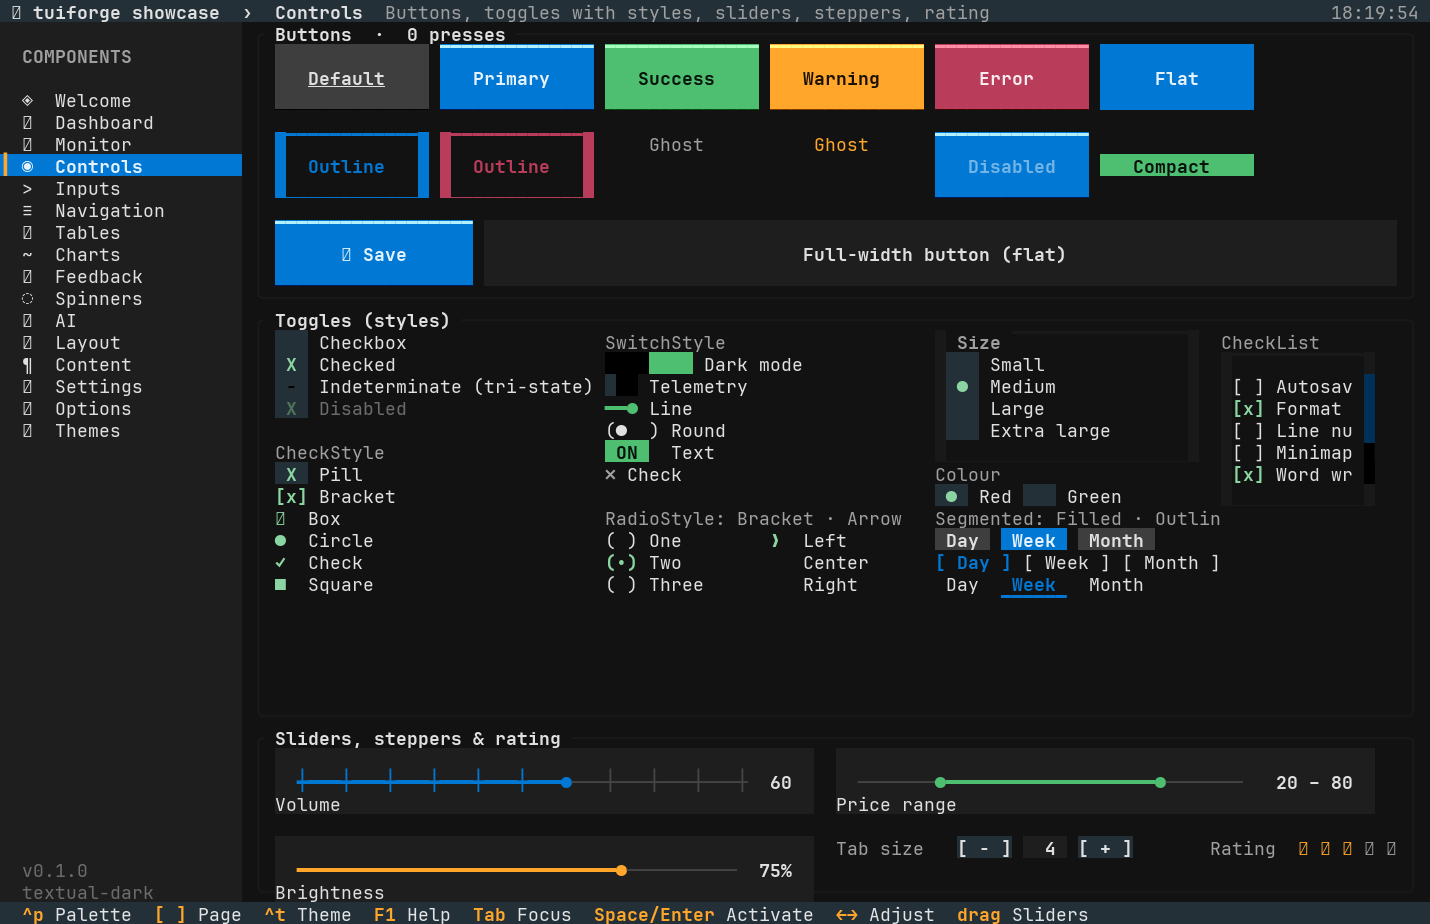
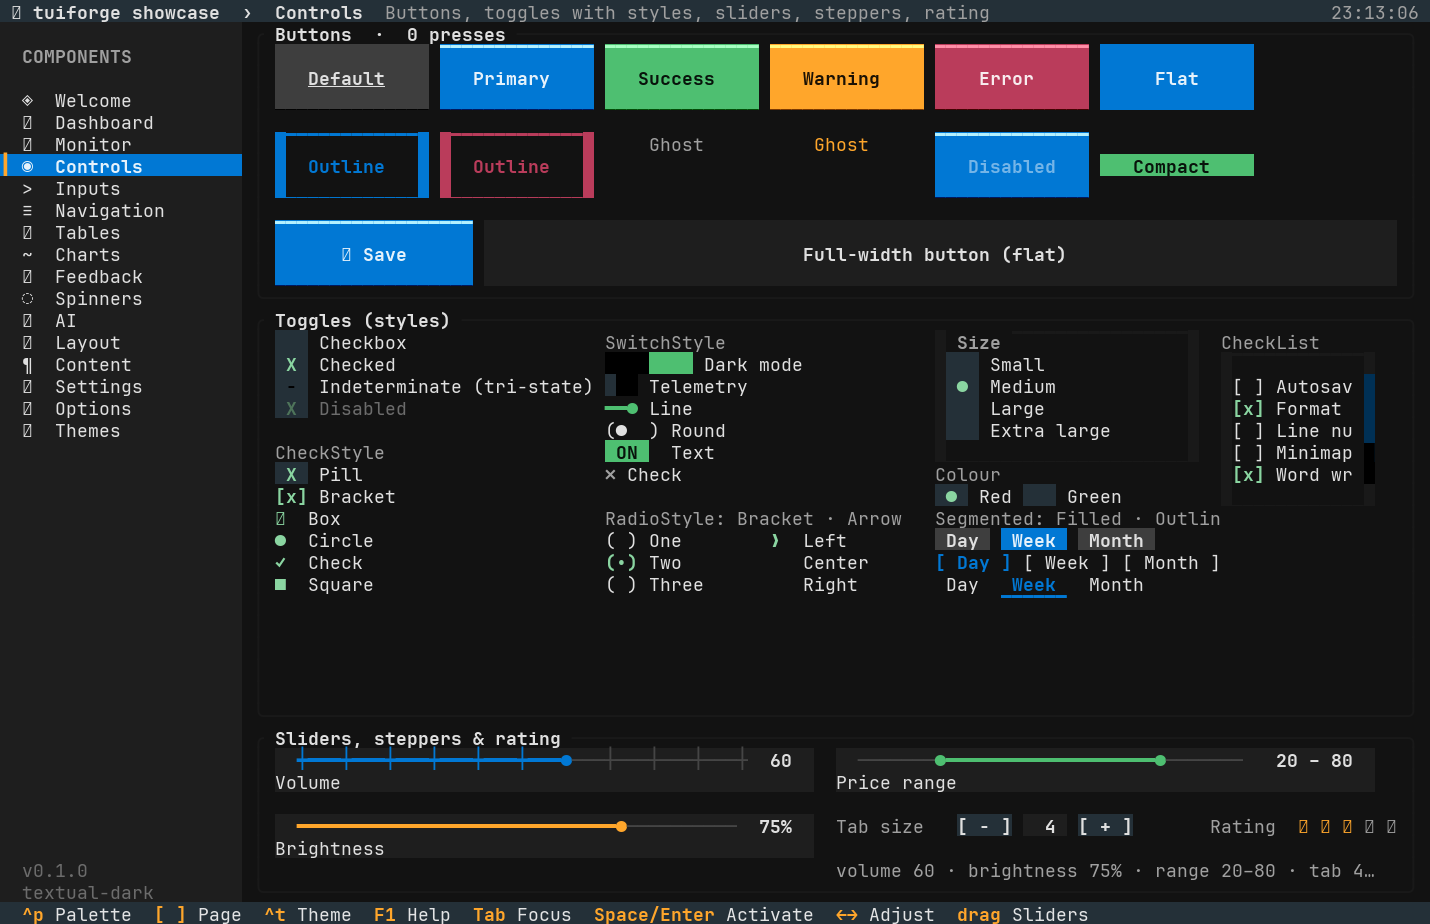
Controls: sliders/stepper/rating get mouse events, press on a slider focuses it, Round switch thumb stays inside the parens, sliders card fits 42 rows

diff --git a/showcase/src/pages/controls.rs b/showcase/src/pages/controls.rs
@@ -277,8 +277,9 @@ impl Page for ControlsPage {
         // ── Sliders & steppers ──
         let s = pad(card(buf, sliders_a, &th, "Sliders, steppers & rating"), 1, 0);
         let [s1, s2] = Layout::horizontal([Constraint::Percentage(50), Constraint::Fill(1)]).areas(s);
-        let row = |a: Rect, i: u16, h: u16| Rect { y: a.y + i, height: h, width: a.width.saturating_sub(2), ..a };
-        Slider::new().label("Volume").show_value(true).format(|v| format!("{v:.0}")).ticks(true).focused(f(Id::Volume, &self.focus)).duration(ctx.dur(150)).now(now).theme(&th).render(row(s1, 0, 3), buf, &mut self.volume);
+        // 2 rows per slider (track + label); rows never spill onto the card's bottom border
+        let row = |a: Rect, i: u16, h: u16| Rect { y: a.y + i, height: h.min(a.height.saturating_sub(i)), width: a.width.saturating_sub(2), ..a };
+        Slider::new().label("Volume").show_value(true).format(|v| format!("{v:.0}")).ticks(true).focused(f(Id::Volume, &self.focus)).duration(ctx.dur(150)).now(now).theme(&th).render(row(s1, 0, 2), buf, &mut self.volume);
         Slider::new()
             .label("Brightness")
             .show_value(true)
@@ -288,16 +289,16 @@ impl Page for ControlsPage {
             .duration(ctx.dur(150))
             .now(now)
             .theme(&th)
-            .render(row(s1, 4, 3), buf, &mut self.brightness);
-        RangeSlider::new().label("Price range").variant(Variant::Success).focused(f(Id::Range, &self.focus)).now(now).theme(&th).render(row(s2, 0, 3), buf, &mut self.range);
-        let sr = row(s2, 4, 1);
+            .render(row(s1, 3, 2), buf, &mut self.brightness);
+        RangeSlider::new().label("Price range").variant(Variant::Success).focused(f(Id::Range, &self.focus)).now(now).theme(&th).render(row(s2, 0, 2), buf, &mut self.range);
+        let sr = row(s2, 3, 1);
         if sr.bottom() <= s.bottom() {
             put(buf, sr.x, sr.y, "Tab size", 10, st(th.text_muted, th.background));
             Stepper::new().focused(f(Id::Stepper, &self.focus)).theme(&th).render(Rect { x: sr.x + 11, width: 20, ..sr }, buf, &mut self.stepper);
             put(buf, sr.x + 34, sr.y, "Rating", 8, st(th.text_muted, th.background));
             Rating::new().max(5).focused(f(Id::Rating, &self.focus)).theme(&th).render(Rect { x: sr.x + 42, width: 12, ..sr }, buf, &mut self.rating);
         }
-        let sv = row(s2, 6, 1);
+        let sv = row(s2, 5, 1);
         if sv.bottom() <= s.bottom() {
             let line = format!(
                 "volume {:.0} · brightness {:.0}% · range {:.0}–{:.0} · tab {} · rating {}/5",
@@ -418,6 +419,11 @@ impl Page for ControlsPage {
                 route!(self.segmented, Id::Segmented);
                 route!(self.segmented_outline, Id::SegmentedOutline);
                 route!(self.segmented_underline, Id::SegmentedUnderline);
+                route!(self.volume, Id::Volume);
+                route!(self.brightness, Id::Brightness);
+                route!(self.range, Id::Range);
+                route!(self.stepper, Id::Stepper);
+                route!(self.rating, Id::Rating);
                 out
             }
             _ => Outcome::Ignored,

diff --git a/tuiforge/src/widgets/slider.rs b/tuiforge/src/widgets/slider.rs
@@ -334,6 +334,8 @@ impl Interactive for SliderState {
                 self.set(v, Instant::now(), Duration::ZERO);
                 Outcome::Changed
             }
+            // press on the label/value row: focus the widget without moving the thumb
+            Hit::Press => Outcome::Consumed,
             Hit::Click | Hit::Cancel => {
                 self.dragging = false;
                 Outcome::Consumed
@@ -639,6 +641,7 @@ impl Interactive for RangeState {
                     Outcome::Ignored
                 }
             }
+            Hit::Press => Outcome::Consumed,
             Hit::Click | Hit::Cancel => {
                 self.dragging = None;
                 Outcome::Consumed

diff --git a/tuiforge/src/widgets/toggle.rs b/tuiforge/src/widgets/toggle.rs
@@ -537,7 +537,7 @@ impl StatefulWidget for Switch {
                     fg = fg.blend(bg, 0.5);
                 }
 
-                let thumb_pos = (t * 3.0).round() as u16 + 1;
+                let thumb_pos = (t * 2.0).round() as u16 + 1;
                 put(buf, track_x, track_y, "(", 1, st(fg, bg));
                 for i in 1..4u16 {
                     let sym = if i == thumb_pos { "●" } else { " " };
